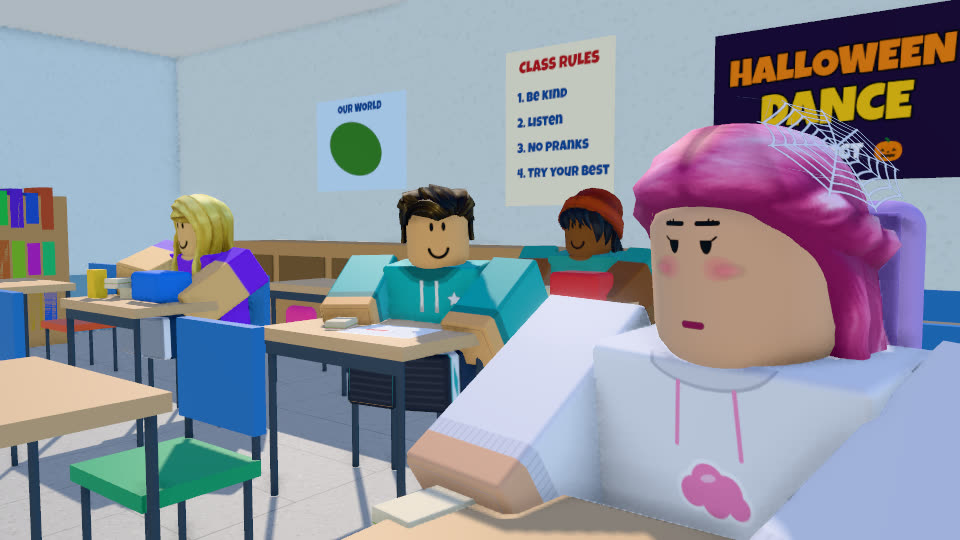
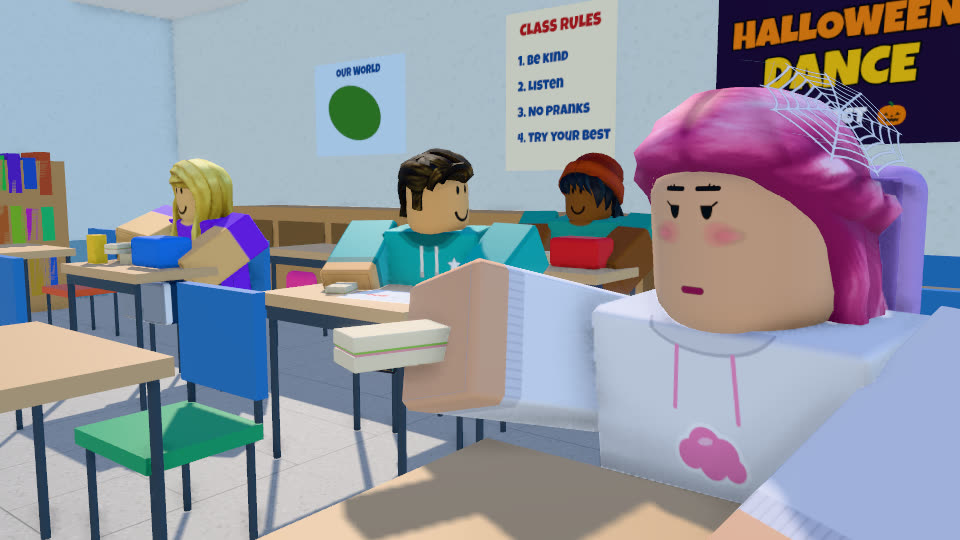
ch04: gate fixes (Max singles framed above captions, chin-on-hand clear of mouth, held props raised, board-side hand-off, end-frame half at chest, Max glances at Skye)

diff --git a/roblox-shorts-studio/projects/i-secretly-lived-in-my-enemys-house/web/ch04.js b/roblox-shorts-studio/projects/i-secretly-lived-in-my-enemys-house/web/ch04.js
@@ -108,7 +108,7 @@ const T = {
 };
 
 // ---------- the shot table ----------
-const S2 = (s) => K.twoShot(s, C.skye, C.max, { framing: 'ms', fov: 34 });
+const S2 = (s) => K.twoShot(s, C.skye, C.max, { framing: 'ms', fov: 34, look: V(0, -0.45, 0) });   // a touch low: held props clear the captions
 const S2c = (s) => K.twoShot(s, C.skye, C.max, { framing: 'mcu', fov: 32, bias: 0.45 });
 const SK = (fr) => (s) => K.camOn(s, C.skye, fr, { angle: 0.45, fov: 32 });
 const MX = (fr) => (s) => K.camOn(s, C.max, fr, { angle: 0.45, fov: 32 });
@@ -121,7 +121,7 @@ const WIDE = (s, t) => {
 };
 const named = (id, fb) => (s, t) => { const c = K.getSet('classroom').cams[id]; return c ? K.setCam(s, c) : fb(s, t); };
 const END = (s) => {                          // Skye MCU foreground left, Max at his desk background right
-  const c = K.getSet('classroom').cams.end_front; if (c) return K.setCam(s, c);
+  const c = K.getSet('classroom').cams.end_front; if (c) return K.setCam(s, { ...c, target: c.target.clone().add(V(0, -0.5, 0)) });
   const sk = K.headPos(C.skye), mx = K.headPos(C.max);
   const target = sk.clone().lerp(mx, 0.42).add(V(0, -0.5, 0));
   const pos = sk.clone().add(V(-2.6, 0.2, -6.4));
@@ -131,14 +131,14 @@ const SHOTS = [
   { line: 1, off: 0, id: 'skye_max_diag', cam: named('skye_max_diag', WIDE) },
   { line: 1, word: 10, id: 'two_shot', cam: S2 },
   { line: 3, off: -0.1, id: 'skye_wrong', cam: named('mcu_skye', SK('mcu')) },
-  { line: 4, off: -0.1, id: 'max_nothing', cam: named('mcu_max_stand', MX('mcu')) },
+  { line: 4, off: -0.1, id: 'max_nothing', cam: MX('mcu') },
   { line: 5, off: -0.1, id: 'skye_lick', cam: named('cu_skye', SK('cu')) },
   { line: 6, off: -0.1, id: 'max_no', cam: S2 },
   { line: 7, off: -0.1, id: 'skye_since', cam: named('mcu_skye', SK('mcu')) },
-  { line: 8, off: -0.1, id: 'max_ghost', cam: named('mcu_max_stand', MX('mcu')) },
+  { line: 8, off: -0.1, id: 'max_ghost', cam: MX('mcu') },
   { line: 9, off: -0.1, id: 'fridge_two', cam: S2 },
   { line: 10, off: -0.1, id: 'skye_spooky', cam: named('mcu_skye', SK('mcu')) },
-  { line: 11, off: -0.1, id: 'max_private', cam: named('mcu_max_stand', MX('mcu')) },
+  { line: 11, off: -0.1, id: 'max_private', cam: MX('mcu') },
   { line: 11, off: 1.0, id: 'lean_two', cam: S2c },
   { line: 13, off: -0.1, id: 'skye_fashion', cam: named('cu_skye', SK('cu')) },
   { line: 14, off: -0.1, id: 'max_pancakes', cam: S2c },
@@ -148,7 +148,7 @@ const SHOTS = [
   { line: 18, off: -0.1, id: 'right_two', cam: S2 },
   { line: 19, off: -0.1, id: 'skye_crusts', cam: named('mcu_skye', SK('mcu')) },
   { line: 20, off: -0.1, id: 'max_half', cam: S2 },
-  { line: 20, off: 99, id: 'handoff', cam: named('two_shot_desk', (s) => K.twoShot(s, C.skye, C.max, { framing: 'ws', fov: 36, bias: 0.35 })) },
+  { line: 20, off: 99, id: 'handoff', cam: (s) => K.twoShot(s, C.skye, C.max, { framing: 'ms', fov: 36, bias: 0.5, look: V(0, -0.6, 0) }) },   // board side: the hands meet in clear view
   { line: 21, off: -0.35, id: 'end_front', cam: END },
 ].map((x) => ({ ...x, start: x.off === 99 ? end(x.line, 0.1) : x.word != null ? wordT(x.line, x.word, -0.1) : Math.max(0, at(x.line, x.off)) })).sort((a, b) => a.start - b.start);
 const shotAt = (t) => { let s = SHOTS[0]; for (const x of SHOTS) if (t >= x.start) s = x; return s; };
@@ -174,6 +174,9 @@ function standOn(a, pos, heading, dict) {
   a.root.position.y -= a.soleHeight() - pos.y + drop; a.root.updateMatrixWorld(true);
 }
 const SIT = K.POSES.sit_desk_arms;
+const OFFER = [-84, 0, 4];                 // hold_out raised to chest height (kit hold_out is -64: too low for the frame)
+const CHEST = [-112, 0, -18];               // Skye's half held up in front of her chest
+const GLANCE_SIGN = 1;
 
 // ---------- update ----------
 export function update(t, stage) {
@@ -199,13 +202,14 @@ export function update(t, stage) {
   const back = (t > at(3) && t < at(7) ? ramp(t, at(3), at(3) + 0.3) * (t > at(5) ? 1 : 0.5) * (1 - ramp(t, at(7), at(7) + 0.3)) : 0)
     + (t > at(12) && t < at(16) ? ramp(t, at(12), at(12) + 0.3) * (1 - ramp(t, at(16) - 0.3, at(16))) * 0.7 : 0);
   dS.Torso = P3(SIT.Torso, K.POSES.lean_back.Torso, back); dS.Head = P3([0, 0, 0], K.POSES.lean_back.Head, back);
-  if (t > at(10) && t < end(10, 0.3)) dS = K.mixAngles(dS, K.POSES.chin_on_hand, ramp(t, at(10), at(10) + 0.3) * (1 - ramp(t, end(10), end(10, 0.3))));
+  if (t > at(10) && t < end(10, 0.3)) dS = K.mixAngles(dS, K.POSES.chin_on_hand, 0.4 * ramp(t, at(10), at(10) + 0.3) * (1 - ramp(t, end(10), end(10, 0.3))));
   if (t > at(17, 0.5) && t < end(17, 0.2)) headY += 30 * away * ramp(t, at(17, 0.5), at(17, 0.8)) * (1 - ramp(t, end(17), end(17, 0.2)));   // prim: turns her head away
   const tilt = t > at(13) && t < end(13, 0.25) ? 12 * ramp(t, at(13), at(13) + 0.2) * (1 - ramp(t, end(13), end(13, 0.25))) : 0;   // "It's fashion." smug head tilt
   dS.Head = [dS.Head?.[0] ?? 0, (dS.Head?.[1] ?? 0) + headY, (dS.Head?.[2] ?? 0) + tilt];
   sitOn(C.skye, mS, hS, dS);
 
-  if (t > T.take() - 0.4) K.gesture(C.skye, 'hold_out', 'R', ramp(t, T.take() - 0.4, T.take()) * (1 - 0.5 * ramp(t, T.take() + 0.1, T.take() + 0.5)));
+  if (t > T.take() - 0.4) K.gesture(C.skye, OFFER, 'R', ramp(t, T.take() - 0.4, T.take()));
+  if (t > T.take() + 0.1) K.gesture(C.skye, CHEST, 'R', ramp(t, T.take() + 0.1, T.take() + 0.5));      // holds her half up at chest height
   let fS = 'annoyed';
   if (t > wordT(1, 15)) fS = 'suspicious';
   if (t > at(7)) fS = 'annoyed';
@@ -241,10 +245,10 @@ export function update(t, stage) {
       const swapped = t > T.swap();
       K.gesture(C.max, 'cup_hold', 'L', swapped && t < T.split() ? 0 : 1);
       if (swapped) K.gesture(C.max, 'cup_hold', 'R', ramp(t, T.swap() - 0.25, T.swap()));
-      if (t > T.show() && t < at(19, 0.3)) K.gesture(C.max, 'hold_out', 'R', ramp(t, T.show(), T.show() + 0.3) * (1 - ramp(t, at(19), at(19, 0.3))));
+      if (t > T.show() && t < at(19, 0.3)) K.gesture(C.max, OFFER, 'R', ramp(t, T.show(), T.show() + 0.3) * (1 - ramp(t, at(19), at(19, 0.3))));
       const down = t > T.cookieDown() && t < T.cookieDown() + 0.5 ? Math.sin(Math.PI * clamp((t - T.cookieDown()) / 0.5)) : 0;
-      if (offer > 0 || down > 0) K.gesture(C.max, down > 0 ? 'tap' : 'hold_out', 'R', Math.max(offer, down));
-      if (t > T.split()) K.gesture(C.max, 'hold_out', 'R', ramp(t, T.split(), T.split() + 0.35) * (1 - ramp(t, T.take() + 0.1, T.take() + 0.4)));
+      if (offer > 0 || down > 0) K.gesture(C.max, down > 0 ? 'tap' : OFFER, 'R', Math.max(offer, down));
+      if (t > T.split()) K.gesture(C.max, OFFER, 'R', ramp(t, T.split(), T.split() + 0.35) * (1 - ramp(t, T.take() + 0.1, T.take() + 0.4)));
     } else { K.gesture(C.max, 'cup_hold', 'L', 1); K.gesture(C.max, 'cup_hold', 'R', 0.6); }
   } else {
     const m = K.walk(C.max, A, mA, mM, T.back(), t, { idleAt: idle, endHeading: mM.heading });
@@ -253,7 +257,7 @@ export function update(t, stage) {
       const d = { ...SIT, Head: [0, 0, 0] };
       const hM = amix(mM.heading, K.faceTo(mM, mS), 0.3);
       const glance = t > at(21, 0.6) ? 1 : 0;                                         // glances over at her
-      d.Head = [0, glance * 25 * Math.sign(amix(hM, K.faceTo(mM, mS), 1) - hM), 0];
+      d.Head = [0, glance * 75 * GLANCE_SIGN * Math.sign(amix(hM, K.faceTo(mM, mS), 1) - hM), 0];
       sitOn(C.max, mM, hM, d);
       K.gesture(C.max, 'cup_hold', 'R', 1);
     } else K.gesture(C.max, 'cup_hold', 'R', 0.7);
